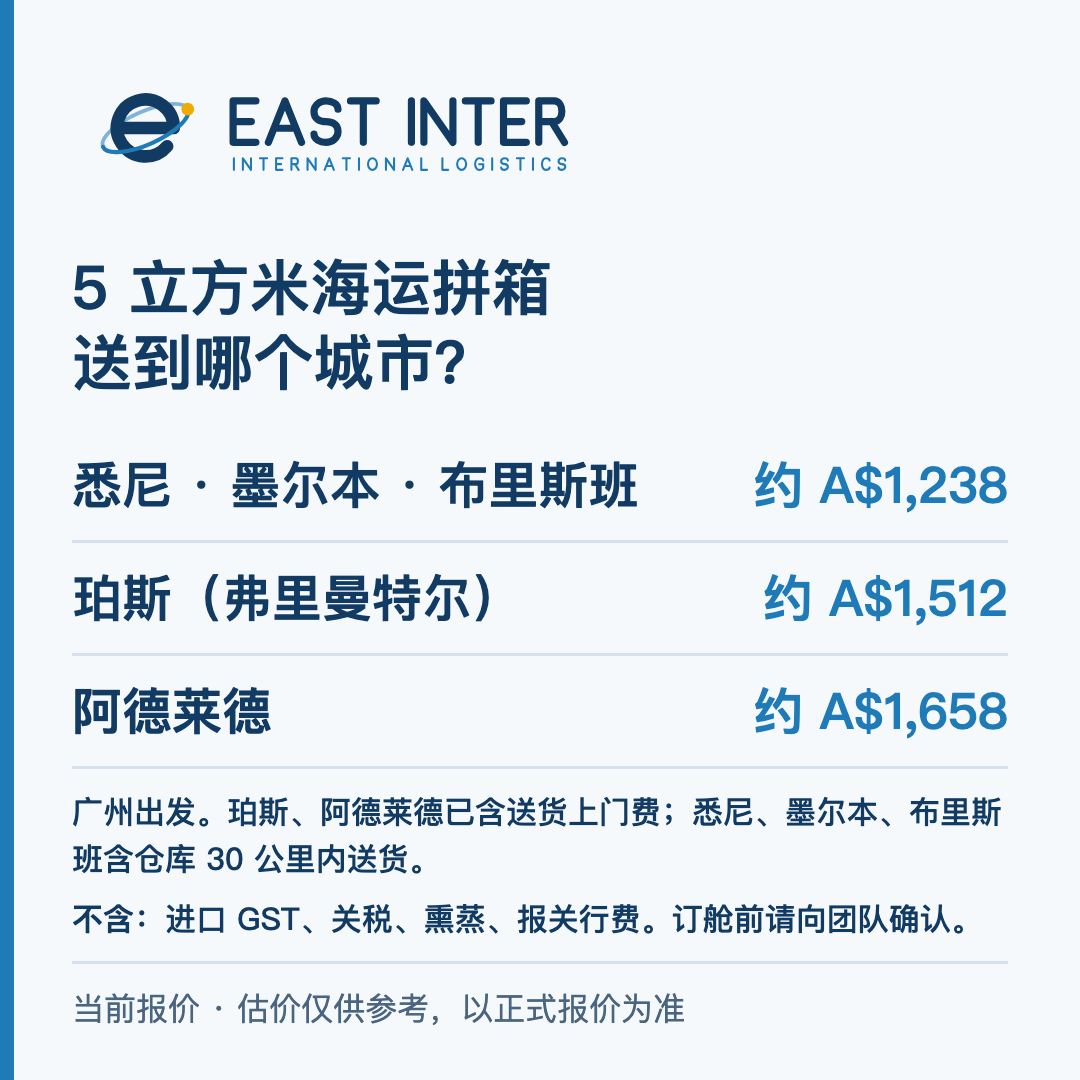
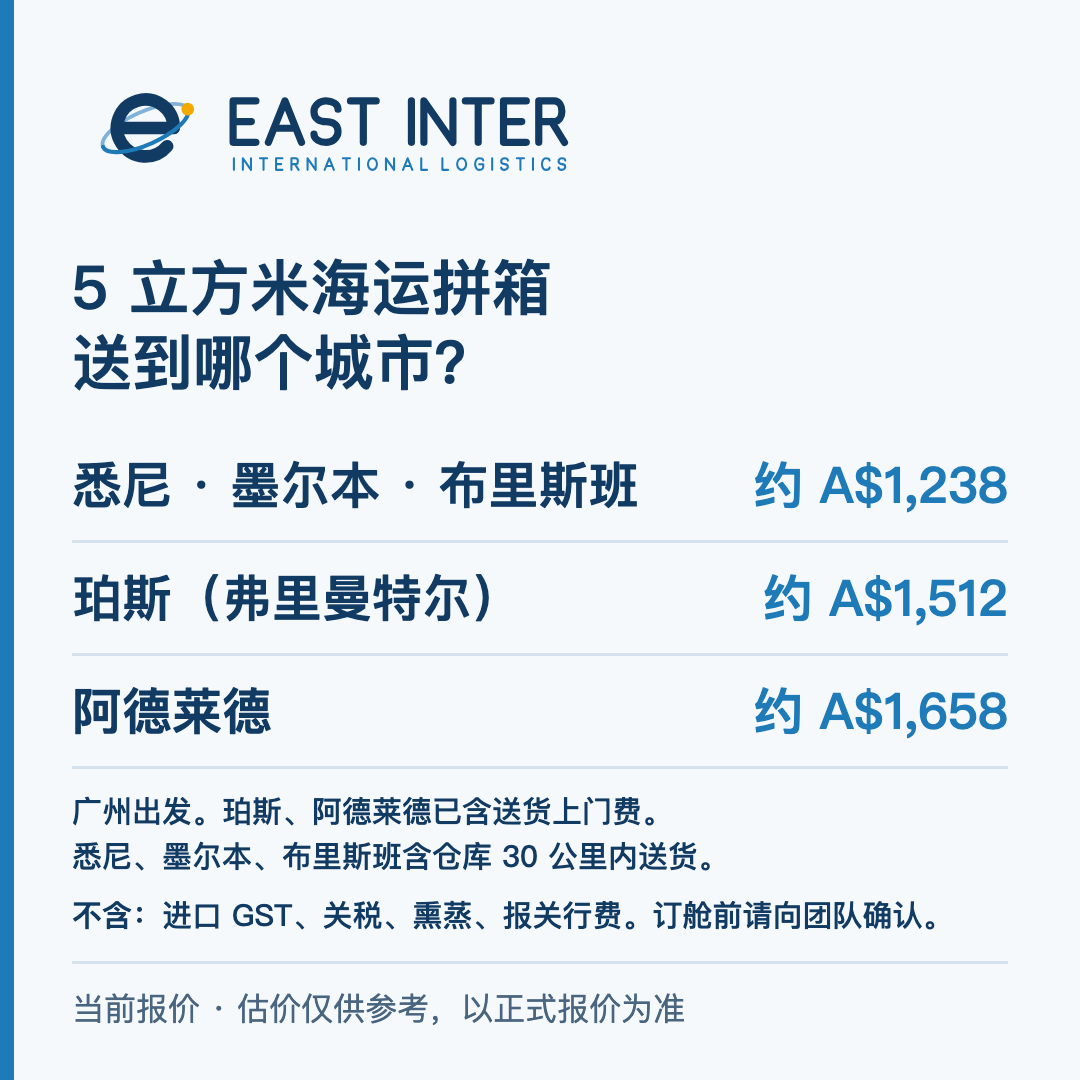
docs(client): 卡 1/卡 2 折行修正（马良复看意见）[east.social.copy-101]

Changed region(s): [[0.0611, 0.7333, 0.8861, 0.8861], [0.6417, 0.7333, 0.9472, 0.7639]]

diff --git a/docs/clients/east-inter/cards-draft/card2-zh.html b/docs/clients/east-inter/cards-draft/card2-zh.html
@@ -13,9 +13,9 @@ h1{font-size:60px;line-height:1.25;font-weight:800;letter-spacing:.5px}
 .list li:before{content:"";display:inline-block;width:22px;height:22px;border-radius:50%;background:#F2A900;margin-right:26px}
 .foot{position:absolute;left:72px;right:72px;bottom:48px;font-size:32px;color:#4A6580;border-top:3px solid #D5E1EC;padding-top:22px;line-height:1.45}
 .pill{display:inline-block;background:#123B63;color:#fff;border-radius:60px;padding:10px 34px;font-size:40px;font-weight:700;margin:6px 14px 6px 0}
-.note{font-size:31px;line-height:1.5;color:#123B63;margin-top:26px;font-weight:500}
+.note{font-size:30px;line-height:1.5;color:#123B63;margin-top:26px;font-weight:500}
 .note b{font-weight:800}
-.en .main{top:222px}.en h1{font-size:52px}.en .note{font-size:28px}.en .foot{font-size:30px;bottom:36px}.en .row{padding:14px 0}
+.en .main{top:222px}.en h1{font-size:52px}.en .note{font-size:29px}.en .foot{font-size:30px;bottom:36px}.en .row{padding:14px 0}
 </style><body class=""><div class="bar"></div><div class="top"><svg xmlns="http://www.w3.org/2000/svg" viewBox="0 0 652 160" width="520" height="128" role="img" aria-label="East Inter International Logistics"><title>East Inter International Logistics</title>
 <g transform="translate(17.00 5.00) scale(0.9375)">
 <g transform="rotate(-24 80 80)"><path d="M18 80 A62 22 0 0 1 142 80" fill="none" stroke="#1F7AB8" stroke-width="5" stroke-linecap="round" opacity=".55"/></g>
@@ -25,4 +25,4 @@ h1{font-size:60px;line-height:1.25;font-weight:800;letter-spacing:.5px}
 <path d="M 230.60 46.00 H 202.00 V 98.00 H 230.60 M 202.00 72.00 H 224.88 M 246.20 98.00 L 267.00 46.00 L 287.80 98.00 M 254.52 80.32 H 279.48 M 333.56 56.40 C 333.56 49.64 326.02 46.00 318.48 46.00 C 310.94 46.00 303.40 51.20 303.40 59.52 C 303.40 68.88 310.94 72.00 318.48 72.00 C 326.02 72.00 333.56 75.12 333.56 84.48 C 333.56 92.80 326.02 98.00 318.48 98.00 C 310.94 98.00 303.40 94.36 303.40 87.60 M 349.16 46.00 H 381.40 M 365.28 46.00 V 98.00 M 425.60 46.00 V 98.00 M 441.20 98.00 V 46.00 L 477.60 98.00 V 46.00 M 493.20 46.00 H 525.44 M 509.32 46.00 V 98.00 M 569.64 46.00 H 541.04 V 98.00 H 569.64 M 541.04 72.00 H 563.92 M 585.24 98.00 V 46.00 H 604.58 C 617.48 46.00 617.48 72.00 604.58 72.00 H 585.24 M 601.36 72.00 L 617.48 98.00" fill="none" stroke="#123B63" stroke-width="9" stroke-linecap="round" stroke-linejoin="round"/>
 <path d="M 203.00 118.00 V 132.50 M 214.25 132.50 V 118.00 L 224.40 132.50 V 118.00 M 235.65 118.00 H 244.64 M 240.15 118.00 V 132.50 M 263.87 118.00 H 255.89 V 132.50 H 263.87 M 255.89 125.25 H 262.27 M 275.12 132.50 V 118.00 H 280.51 C 284.11 118.00 284.11 125.25 280.51 125.25 H 275.12 M 279.61 125.25 L 284.11 132.50 M 295.36 132.50 V 118.00 L 305.51 132.50 V 118.00 M 316.76 132.50 L 322.56 118.00 L 328.36 132.50 M 319.08 127.57 H 326.04 M 339.61 118.00 H 348.60 M 344.10 118.00 V 132.50 M 359.85 118.00 V 132.50 M 376.75 118.00 C 379.58 118.00 382.41 120.90 382.41 125.25 C 382.41 129.60 379.58 132.50 376.75 132.50 C 373.93 132.50 371.10 129.60 371.10 125.25 C 371.10 120.90 373.93 118.00 376.75 118.00 Z M 393.66 132.50 V 118.00 L 403.81 132.50 V 118.00 M 415.06 132.50 L 420.86 118.00 L 426.66 132.50 M 417.38 127.57 H 424.34 M 437.91 118.00 V 132.50 H 445.16 M 464.39 118.00 V 132.50 H 471.64 M 488.54 118.00 C 491.37 118.00 494.20 120.90 494.20 125.25 C 494.20 129.60 491.37 132.50 488.54 132.50 C 485.71 132.50 482.89 129.60 482.89 125.25 C 482.89 120.90 485.71 118.00 488.54 118.00 Z M 515.60 120.90 C 515.60 119.16 513.06 118.00 510.52 118.00 C 507.98 118.00 505.45 120.90 505.45 125.25 C 505.45 129.60 507.98 132.50 510.52 132.50 C 513.06 132.50 515.60 131.05 515.60 128.88 V 125.54 H 510.52 M 526.85 118.00 V 132.50 M 546.51 120.90 C 546.51 119.02 544.41 118.00 542.30 118.00 C 540.20 118.00 538.10 119.45 538.10 121.77 C 538.10 124.38 540.20 125.25 542.30 125.25 C 544.41 125.25 546.51 126.12 546.51 128.73 C 546.51 131.05 544.41 132.50 542.30 132.50 C 540.20 132.50 538.10 131.49 538.10 129.60 M 557.76 118.00 H 566.75 M 562.25 118.00 V 132.50 M 578.00 118.00 V 132.50 M 598.82 120.90 C 598.82 119.16 596.43 118.00 594.03 118.00 C 591.64 118.00 589.25 120.90 589.25 125.25 C 589.25 129.60 591.64 132.50 594.03 132.50 C 596.43 132.50 598.82 131.34 598.82 129.60 M 618.48 120.90 C 618.48 119.02 616.38 118.00 614.28 118.00 C 612.17 118.00 610.07 119.45 610.07 121.77 C 610.07 124.38 612.17 125.25 614.28 125.25 C 616.38 125.25 618.48 126.12 618.48 128.73 C 618.48 131.05 616.38 132.50 614.28 132.50 C 612.17 132.50 610.07 131.49 610.07 129.60" fill="none" stroke="#1F7AB8" stroke-width="2.6" stroke-linecap="round" stroke-linejoin="round"/>
 </svg>
-</div><div class="main"><h1>5 立方米海运拼箱<br>送到哪个城市？</h1><div style='margin-top:30px'><div class='row' style='font-size:50px'><span>悉尼 · 墨尔本 · 布里斯班</span><b>约 A$1,238</b></div><div class='row' style='font-size:50px'><span>珀斯（弗里曼特尔）</span><b>约 A$1,512</b></div><div class='row' style='font-size:50px'><span>阿德莱德</span><b>约 A$1,658</b></div></div><div class='note' style='margin-top:20px'>广州出发。珀斯、阿德莱德已含送货上门费；悉尼、墨尔本、布里斯班含仓库 30 公里内送货。</div><div class='note' style='margin-top:14px'><b>不含：</b>进口 GST、关税、熏蒸、报关行费。订舱前请向团队确认。</div></div><div class="foot">当前报价 · 估价仅供参考，以正式报价为准</div></body></html>
+</div><div class="main"><h1>5 立方米海运拼箱<br>送到哪个城市？</h1><div style='margin-top:30px'><div class='row' style='font-size:50px'><span>悉尼 · 墨尔本 · 布里斯班</span><b>约 A$1,238</b></div><div class='row' style='font-size:50px'><span>珀斯（弗里曼特尔）</span><b>约 A$1,512</b></div><div class='row' style='font-size:50px'><span>阿德莱德</span><b>约 A$1,658</b></div></div><div class='note' style='margin-top:20px'>广州出发。珀斯、阿德莱德已含送货上门费。<br>悉尼、墨尔本、布里斯班含仓库 30 公里内送货。</div><div class='note' style='margin-top:14px'><b>不含：</b>进口 GST、关税、熏蒸、报关行费。订舱前请向团队确认。</div></div><div class="foot">当前报价 · 估价仅供参考，以正式报价为准</div></body></html>

diff --git a/docs/clients/east-inter/cards-draft/card2-en.html b/docs/clients/east-inter/cards-draft/card2-en.html
@@ -13,9 +13,9 @@ h1{font-size:60px;line-height:1.25;font-weight:800;letter-spacing:.5px}
 .list li:before{content:"";display:inline-block;width:22px;height:22px;border-radius:50%;background:#F2A900;margin-right:26px}
 .foot{position:absolute;left:72px;right:72px;bottom:48px;font-size:32px;color:#4A6580;border-top:3px solid #D5E1EC;padding-top:22px;line-height:1.45}
 .pill{display:inline-block;background:#123B63;color:#fff;border-radius:60px;padding:10px 34px;font-size:40px;font-weight:700;margin:6px 14px 6px 0}
-.note{font-size:31px;line-height:1.5;color:#123B63;margin-top:26px;font-weight:500}
+.note{font-size:30px;line-height:1.5;color:#123B63;margin-top:26px;font-weight:500}
 .note b{font-weight:800}
-.en .main{top:222px}.en h1{font-size:52px}.en .note{font-size:28px}.en .foot{font-size:30px;bottom:36px}.en .row{padding:14px 0}
+.en .main{top:222px}.en h1{font-size:52px}.en .note{font-size:29px}.en .foot{font-size:30px;bottom:36px}.en .row{padding:14px 0}
 </style><body class="en"><div class="bar"></div><div class="top"><svg xmlns="http://www.w3.org/2000/svg" viewBox="0 0 652 160" width="520" height="128" role="img" aria-label="East Inter International Logistics"><title>East Inter International Logistics</title>
 <g transform="translate(17.00 5.00) scale(0.9375)">
 <g transform="rotate(-24 80 80)"><path d="M18 80 A62 22 0 0 1 142 80" fill="none" stroke="#1F7AB8" stroke-width="5" stroke-linecap="round" opacity=".55"/></g>
@@ -25,4 +25,4 @@ h1{font-size:60px;line-height:1.25;font-weight:800;letter-spacing:.5px}
 <path d="M 230.60 46.00 H 202.00 V 98.00 H 230.60 M 202.00 72.00 H 224.88 M 246.20 98.00 L 267.00 46.00 L 287.80 98.00 M 254.52 80.32 H 279.48 M 333.56 56.40 C 333.56 49.64 326.02 46.00 318.48 46.00 C 310.94 46.00 303.40 51.20 303.40 59.52 C 303.40 68.88 310.94 72.00 318.48 72.00 C 326.02 72.00 333.56 75.12 333.56 84.48 C 333.56 92.80 326.02 98.00 318.48 98.00 C 310.94 98.00 303.40 94.36 303.40 87.60 M 349.16 46.00 H 381.40 M 365.28 46.00 V 98.00 M 425.60 46.00 V 98.00 M 441.20 98.00 V 46.00 L 477.60 98.00 V 46.00 M 493.20 46.00 H 525.44 M 509.32 46.00 V 98.00 M 569.64 46.00 H 541.04 V 98.00 H 569.64 M 541.04 72.00 H 563.92 M 585.24 98.00 V 46.00 H 604.58 C 617.48 46.00 617.48 72.00 604.58 72.00 H 585.24 M 601.36 72.00 L 617.48 98.00" fill="none" stroke="#123B63" stroke-width="9" stroke-linecap="round" stroke-linejoin="round"/>
 <path d="M 203.00 118.00 V 132.50 M 214.25 132.50 V 118.00 L 224.40 132.50 V 118.00 M 235.65 118.00 H 244.64 M 240.15 118.00 V 132.50 M 263.87 118.00 H 255.89 V 132.50 H 263.87 M 255.89 125.25 H 262.27 M 275.12 132.50 V 118.00 H 280.51 C 284.11 118.00 284.11 125.25 280.51 125.25 H 275.12 M 279.61 125.25 L 284.11 132.50 M 295.36 132.50 V 118.00 L 305.51 132.50 V 118.00 M 316.76 132.50 L 322.56 118.00 L 328.36 132.50 M 319.08 127.57 H 326.04 M 339.61 118.00 H 348.60 M 344.10 118.00 V 132.50 M 359.85 118.00 V 132.50 M 376.75 118.00 C 379.58 118.00 382.41 120.90 382.41 125.25 C 382.41 129.60 379.58 132.50 376.75 132.50 C 373.93 132.50 371.10 129.60 371.10 125.25 C 371.10 120.90 373.93 118.00 376.75 118.00 Z M 393.66 132.50 V 118.00 L 403.81 132.50 V 118.00 M 415.06 132.50 L 420.86 118.00 L 426.66 132.50 M 417.38 127.57 H 424.34 M 437.91 118.00 V 132.50 H 445.16 M 464.39 118.00 V 132.50 H 471.64 M 488.54 118.00 C 491.37 118.00 494.20 120.90 494.20 125.25 C 494.20 129.60 491.37 132.50 488.54 132.50 C 485.71 132.50 482.89 129.60 482.89 125.25 C 482.89 120.90 485.71 118.00 488.54 118.00 Z M 515.60 120.90 C 515.60 119.16 513.06 118.00 510.52 118.00 C 507.98 118.00 505.45 120.90 505.45 125.25 C 505.45 129.60 507.98 132.50 510.52 132.50 C 513.06 132.50 515.60 131.05 515.60 128.88 V 125.54 H 510.52 M 526.85 118.00 V 132.50 M 546.51 120.90 C 546.51 119.02 544.41 118.00 542.30 118.00 C 540.20 118.00 538.10 119.45 538.10 121.77 C 538.10 124.38 540.20 125.25 542.30 125.25 C 544.41 125.25 546.51 126.12 546.51 128.73 C 546.51 131.05 544.41 132.50 542.30 132.50 C 540.20 132.50 538.10 131.49 538.10 129.60 M 557.76 118.00 H 566.75 M 562.25 118.00 V 132.50 M 578.00 118.00 V 132.50 M 598.82 120.90 C 598.82 119.16 596.43 118.00 594.03 118.00 C 591.64 118.00 589.25 120.90 589.25 125.25 C 589.25 129.60 591.64 132.50 594.03 132.50 C 596.43 132.50 598.82 131.34 598.82 129.60 M 618.48 120.90 C 618.48 119.02 616.38 118.00 614.28 118.00 C 612.17 118.00 610.07 119.45 610.07 121.77 C 610.07 124.38 612.17 125.25 614.28 125.25 C 616.38 125.25 618.48 126.12 618.48 128.73 C 618.48 131.05 616.38 132.50 614.28 132.50 C 612.17 132.50 610.07 131.49 610.07 129.60" fill="none" stroke="#1F7AB8" stroke-width="2.6" stroke-linecap="round" stroke-linejoin="round"/>
 </svg>
-</div><div class="main"><h1>5 m³ sea freight —<br>which city?</h1><div style='margin-top:30px'><div class='row' style='font-size:42px'><span>Sydney · Melbourne · Brisbane</span><b>≈ A$1,238</b></div><div class='row' style='font-size:42px'><span>Perth (Fremantle)</span><b>≈ A$1,512</b></div><div class='row' style='font-size:42px'><span>Adelaide</span><b>≈ A$1,658</b></div></div><div class='note' style='margin-top:20px'>From Guangzhou. Perth and Adelaide include door delivery; the other cities include delivery within 30 km of the warehouse.</div><div class='note' style='margin-top:14px'><b>Not included:</b> GST, import duty, fumigation, customs broker fee. Contact us to confirm.</div></div><div class="foot">Indicative estimate. Final charges are subject to a binding quote.</div></body></html>
+</div><div class="main"><h1>5 m³ sea freight —<br>which city?</h1><div style='margin-top:30px'><div class='row' style='font-size:42px'><span>Sydney · Melbourne · Brisbane</span><b>≈ A$1,238</b></div><div class='row' style='font-size:42px'><span>Perth (Fremantle)</span><b>≈ A$1,512</b></div><div class='row' style='font-size:42px'><span>Adelaide</span><b>≈ A$1,658</b></div></div><div class='note' style='margin-top:20px'>From Guangzhou. Perth and Adelaide include door delivery; the other cities include delivery within 30 km of the warehouse.</div><div class='note' style='margin-top:14px'><b>Not included:</b> GST, import duty, fumigation, customs broker fee. <span style='white-space:nowrap'>Contact us to confirm.</span></div></div><div class="foot">Indicative estimate. Final charges are subject to a binding quote.</div></body></html>

diff --git a/docs/clients/east-inter/cards-draft/card1-en.html b/docs/clients/east-inter/cards-draft/card1-en.html
@@ -13,9 +13,9 @@ h1{font-size:60px;line-height:1.25;font-weight:800;letter-spacing:.5px}
 .list li:before{content:"";display:inline-block;width:22px;height:22px;border-radius:50%;background:#F2A900;margin-right:26px}
 .foot{position:absolute;left:72px;right:72px;bottom:48px;font-size:32px;color:#4A6580;border-top:3px solid #D5E1EC;padding-top:22px;line-height:1.45}
 .pill{display:inline-block;background:#123B63;color:#fff;border-radius:60px;padding:10px 34px;font-size:40px;font-weight:700;margin:6px 14px 6px 0}
-.note{font-size:31px;line-height:1.5;color:#123B63;margin-top:26px;font-weight:500}
+.note{font-size:30px;line-height:1.5;color:#123B63;margin-top:26px;font-weight:500}
 .note b{font-weight:800}
-.en .main{top:222px}.en h1{font-size:52px}.en .note{font-size:28px}.en .foot{font-size:30px;bottom:36px}.en .row{padding:14px 0}
+.en .main{top:222px}.en h1{font-size:52px}.en .note{font-size:29px}.en .foot{font-size:30px;bottom:36px}.en .row{padding:14px 0}
 </style><body class="en"><div class="bar"></div><div class="top"><svg xmlns="http://www.w3.org/2000/svg" viewBox="0 0 652 160" width="520" height="128" role="img" aria-label="East Inter International Logistics"><title>East Inter International Logistics</title>
 <g transform="translate(17.00 5.00) scale(0.9375)">
 <g transform="rotate(-24 80 80)"><path d="M18 80 A62 22 0 0 1 142 80" fill="none" stroke="#1F7AB8" stroke-width="5" stroke-linecap="round" opacity=".55"/></g>
@@ -25,4 +25,4 @@ h1{font-size:60px;line-height:1.25;font-weight:800;letter-spacing:.5px}
 <path d="M 230.60 46.00 H 202.00 V 98.00 H 230.60 M 202.00 72.00 H 224.88 M 246.20 98.00 L 267.00 46.00 L 287.80 98.00 M 254.52 80.32 H 279.48 M 333.56 56.40 C 333.56 49.64 326.02 46.00 318.48 46.00 C 310.94 46.00 303.40 51.20 303.40 59.52 C 303.40 68.88 310.94 72.00 318.48 72.00 C 326.02 72.00 333.56 75.12 333.56 84.48 C 333.56 92.80 326.02 98.00 318.48 98.00 C 310.94 98.00 303.40 94.36 303.40 87.60 M 349.16 46.00 H 381.40 M 365.28 46.00 V 98.00 M 425.60 46.00 V 98.00 M 441.20 98.00 V 46.00 L 477.60 98.00 V 46.00 M 493.20 46.00 H 525.44 M 509.32 46.00 V 98.00 M 569.64 46.00 H 541.04 V 98.00 H 569.64 M 541.04 72.00 H 563.92 M 585.24 98.00 V 46.00 H 604.58 C 617.48 46.00 617.48 72.00 604.58 72.00 H 585.24 M 601.36 72.00 L 617.48 98.00" fill="none" stroke="#123B63" stroke-width="9" stroke-linecap="round" stroke-linejoin="round"/>
 <path d="M 203.00 118.00 V 132.50 M 214.25 132.50 V 118.00 L 224.40 132.50 V 118.00 M 235.65 118.00 H 244.64 M 240.15 118.00 V 132.50 M 263.87 118.00 H 255.89 V 132.50 H 263.87 M 255.89 125.25 H 262.27 M 275.12 132.50 V 118.00 H 280.51 C 284.11 118.00 284.11 125.25 280.51 125.25 H 275.12 M 279.61 125.25 L 284.11 132.50 M 295.36 132.50 V 118.00 L 305.51 132.50 V 118.00 M 316.76 132.50 L 322.56 118.00 L 328.36 132.50 M 319.08 127.57 H 326.04 M 339.61 118.00 H 348.60 M 344.10 118.00 V 132.50 M 359.85 118.00 V 132.50 M 376.75 118.00 C 379.58 118.00 382.41 120.90 382.41 125.25 C 382.41 129.60 379.58 132.50 376.75 132.50 C 373.93 132.50 371.10 129.60 371.10 125.25 C 371.10 120.90 373.93 118.00 376.75 118.00 Z M 393.66 132.50 V 118.00 L 403.81 132.50 V 118.00 M 415.06 132.50 L 420.86 118.00 L 426.66 132.50 M 417.38 127.57 H 424.34 M 437.91 118.00 V 132.50 H 445.16 M 464.39 118.00 V 132.50 H 471.64 M 488.54 118.00 C 491.37 118.00 494.20 120.90 494.20 125.25 C 494.20 129.60 491.37 132.50 488.54 132.50 C 485.71 132.50 482.89 129.60 482.89 125.25 C 482.89 120.90 485.71 118.00 488.54 118.00 Z M 515.60 120.90 C 515.60 119.16 513.06 118.00 510.52 118.00 C 507.98 118.00 505.45 120.90 505.45 125.25 C 505.45 129.60 507.98 132.50 510.52 132.50 C 513.06 132.50 515.60 131.05 515.60 128.88 V 125.54 H 510.52 M 526.85 118.00 V 132.50 M 546.51 120.90 C 546.51 119.02 544.41 118.00 542.30 118.00 C 540.20 118.00 538.10 119.45 538.10 121.77 C 538.10 124.38 540.20 125.25 542.30 125.25 C 544.41 125.25 546.51 126.12 546.51 128.73 C 546.51 131.05 544.41 132.50 542.30 132.50 C 540.20 132.50 538.10 131.49 538.10 129.60 M 557.76 118.00 H 566.75 M 562.25 118.00 V 132.50 M 578.00 118.00 V 132.50 M 598.82 120.90 C 598.82 119.16 596.43 118.00 594.03 118.00 C 591.64 118.00 589.25 120.90 589.25 125.25 C 589.25 129.60 591.64 132.50 594.03 132.50 C 596.43 132.50 598.82 131.34 598.82 129.60 M 618.48 120.90 C 618.48 119.02 616.38 118.00 614.28 118.00 C 612.17 118.00 610.07 119.45 610.07 121.77 C 610.07 124.38 612.17 125.25 614.28 125.25 C 616.38 125.25 618.48 126.12 618.48 128.73 C 618.48 131.05 616.38 132.50 614.28 132.50 C 612.17 132.50 610.07 131.49 610.07 129.60" fill="none" stroke="#1F7AB8" stroke-width="2.6" stroke-linecap="round" stroke-linejoin="round"/>
 </svg>
-</div><div class="main"><h1>Guangzhou to Sydney<br>Sea freight LCL, 1 m³</h1><div class='big' style='font-size:160px;margin:24px 0 12px'>≈ A$378</div><div class='sub' style='font-size:38px'>Door to door · clearance included<br>Approx. 20 days (estimate)</div><div class='note' style='margin-top:14px'>Delivery within 30 km of the warehouse is included.</div><div class='note'><b>Not included:</b> GST (10% of goods value), import duty (0–10%), fumigation (A$143 per shipment), customs broker fee (A$99). Contact us to confirm.</div></div><div class="foot">Indicative estimate. Final charges are subject to a binding quote.</div></body></html>
+</div><div class="main"><h1>Guangzhou to Sydney<br>Sea freight LCL, 1 m³</h1><div class='big' style='font-size:160px;margin:24px 0 12px'>≈ A$378</div><div class='sub' style='font-size:38px'>Door to door · clearance included<br>Approx. 20 days (estimate)</div><div class='note' style='margin-top:14px'>Delivery within 30 km of the warehouse is included.</div><div class='note'><b>Not included:</b> GST (10% of goods value), import duty (0–10%), fumigation (A$143 per shipment), customs broker fee (A$99). <span style='white-space:nowrap'>Contact us to confirm.</span></div></div><div class="foot">Indicative estimate. Final charges are subject to a binding quote.</div></body></html>

diff --git a/docs/clients/east-inter/cards-draft/card1-zh.html b/docs/clients/east-inter/cards-draft/card1-zh.html
@@ -13,9 +13,9 @@ h1{font-size:60px;line-height:1.25;font-weight:800;letter-spacing:.5px}
 .list li:before{content:"";display:inline-block;width:22px;height:22px;border-radius:50%;background:#F2A900;margin-right:26px}
 .foot{position:absolute;left:72px;right:72px;bottom:48px;font-size:32px;color:#4A6580;border-top:3px solid #D5E1EC;padding-top:22px;line-height:1.45}
 .pill{display:inline-block;background:#123B63;color:#fff;border-radius:60px;padding:10px 34px;font-size:40px;font-weight:700;margin:6px 14px 6px 0}
-.note{font-size:31px;line-height:1.5;color:#123B63;margin-top:26px;font-weight:500}
+.note{font-size:30px;line-height:1.5;color:#123B63;margin-top:26px;font-weight:500}
 .note b{font-weight:800}
-.en .main{top:222px}.en h1{font-size:52px}.en .note{font-size:28px}.en .foot{font-size:30px;bottom:36px}.en .row{padding:14px 0}
+.en .main{top:222px}.en h1{font-size:52px}.en .note{font-size:29px}.en .foot{font-size:30px;bottom:36px}.en .row{padding:14px 0}
 </style><body class=""><div class="bar"></div><div class="top"><svg xmlns="http://www.w3.org/2000/svg" viewBox="0 0 652 160" width="520" height="128" role="img" aria-label="East Inter International Logistics"><title>East Inter International Logistics</title>
 <g transform="translate(17.00 5.00) scale(0.9375)">
 <g transform="rotate(-24 80 80)"><path d="M18 80 A62 22 0 0 1 142 80" fill="none" stroke="#1F7AB8" stroke-width="5" stroke-linecap="round" opacity=".55"/></g>
@@ -25,4 +25,4 @@ h1{font-size:60px;line-height:1.25;font-weight:800;letter-spacing:.5px}
 <path d="M 230.60 46.00 H 202.00 V 98.00 H 230.60 M 202.00 72.00 H 224.88 M 246.20 98.00 L 267.00 46.00 L 287.80 98.00 M 254.52 80.32 H 279.48 M 333.56 56.40 C 333.56 49.64 326.02 46.00 318.48 46.00 C 310.94 46.00 303.40 51.20 303.40 59.52 C 303.40 68.88 310.94 72.00 318.48 72.00 C 326.02 72.00 333.56 75.12 333.56 84.48 C 333.56 92.80 326.02 98.00 318.48 98.00 C 310.94 98.00 303.40 94.36 303.40 87.60 M 349.16 46.00 H 381.40 M 365.28 46.00 V 98.00 M 425.60 46.00 V 98.00 M 441.20 98.00 V 46.00 L 477.60 98.00 V 46.00 M 493.20 46.00 H 525.44 M 509.32 46.00 V 98.00 M 569.64 46.00 H 541.04 V 98.00 H 569.64 M 541.04 72.00 H 563.92 M 585.24 98.00 V 46.00 H 604.58 C 617.48 46.00 617.48 72.00 604.58 72.00 H 585.24 M 601.36 72.00 L 617.48 98.00" fill="none" stroke="#123B63" stroke-width="9" stroke-linecap="round" stroke-linejoin="round"/>
 <path d="M 203.00 118.00 V 132.50 M 214.25 132.50 V 118.00 L 224.40 132.50 V 118.00 M 235.65 118.00 H 244.64 M 240.15 118.00 V 132.50 M 263.87 118.00 H 255.89 V 132.50 H 263.87 M 255.89 125.25 H 262.27 M 275.12 132.50 V 118.00 H 280.51 C 284.11 118.00 284.11 125.25 280.51 125.25 H 275.12 M 279.61 125.25 L 284.11 132.50 M 295.36 132.50 V 118.00 L 305.51 132.50 V 118.00 M 316.76 132.50 L 322.56 118.00 L 328.36 132.50 M 319.08 127.57 H 326.04 M 339.61 118.00 H 348.60 M 344.10 118.00 V 132.50 M 359.85 118.00 V 132.50 M 376.75 118.00 C 379.58 118.00 382.41 120.90 382.41 125.25 C 382.41 129.60 379.58 132.50 376.75 132.50 C 373.93 132.50 371.10 129.60 371.10 125.25 C 371.10 120.90 373.93 118.00 376.75 118.00 Z M 393.66 132.50 V 118.00 L 403.81 132.50 V 118.00 M 415.06 132.50 L 420.86 118.00 L 426.66 132.50 M 417.38 127.57 H 424.34 M 437.91 118.00 V 132.50 H 445.16 M 464.39 118.00 V 132.50 H 471.64 M 488.54 118.00 C 491.37 118.00 494.20 120.90 494.20 125.25 C 494.20 129.60 491.37 132.50 488.54 132.50 C 485.71 132.50 482.89 129.60 482.89 125.25 C 482.89 120.90 485.71 118.00 488.54 118.00 Z M 515.60 120.90 C 515.60 119.16 513.06 118.00 510.52 118.00 C 507.98 118.00 505.45 120.90 505.45 125.25 C 505.45 129.60 507.98 132.50 510.52 132.50 C 513.06 132.50 515.60 131.05 515.60 128.88 V 125.54 H 510.52 M 526.85 118.00 V 132.50 M 546.51 120.90 C 546.51 119.02 544.41 118.00 542.30 118.00 C 540.20 118.00 538.10 119.45 538.10 121.77 C 538.10 124.38 540.20 125.25 542.30 125.25 C 544.41 125.25 546.51 126.12 546.51 128.73 C 546.51 131.05 544.41 132.50 542.30 132.50 C 540.20 132.50 538.10 131.49 538.10 129.60 M 557.76 118.00 H 566.75 M 562.25 118.00 V 132.50 M 578.00 118.00 V 132.50 M 598.82 120.90 C 598.82 119.16 596.43 118.00 594.03 118.00 C 591.64 118.00 589.25 120.90 589.25 125.25 C 589.25 129.60 591.64 132.50 594.03 132.50 C 596.43 132.50 598.82 131.34 598.82 129.60 M 618.48 120.90 C 618.48 119.02 616.38 118.00 614.28 118.00 C 612.17 118.00 610.07 119.45 610.07 121.77 C 610.07 124.38 612.17 125.25 614.28 125.25 C 616.38 125.25 618.48 126.12 618.48 128.73 C 618.48 131.05 616.38 132.50 614.28 132.50 C 612.17 132.50 610.07 131.49 610.07 129.60" fill="none" stroke="#1F7AB8" stroke-width="2.6" stroke-linecap="round" stroke-linejoin="round"/>
 </svg>
-</div><div class="main"><h1>从广州到悉尼<br>海运拼箱 1 立方米</h1><div class='big'>约 A$378</div><div class='sub' style='font-size:40px'>门到门 · 含清关 · 约 20 天（估计）</div><div class='note' style='margin-top:14px'>仓库 30 公里内送货已含</div><div class='note'><b>不含：</b>进口 GST（货值 10%）、关税（0–10%）、熏蒸（每票 A$143）、报关行费（A$99）。订舱前请向团队确认。</div></div><div class="foot">当前报价 · 估价仅供参考，以正式报价为准</div></body></html>
+</div><div class="main"><h1>从广州到悉尼<br>海运拼箱 1 立方米</h1><div class='big'>约 A$378</div><div class='sub' style='font-size:40px'>门到门 · 含清关 · 约 20 天</div><div class='note' style='margin-top:14px'>仓库 30 公里内送货已含</div><div class='note'><b>不含：</b><span style='white-space:nowrap'>进口 GST（货值 10%）</span>、<span style='white-space:nowrap'>关税（0–10%）</span>、<span style='white-space:nowrap'>熏蒸（每票 A$143）</span>、<span style='white-space:nowrap'>报关行费（A$99）</span>。订舱前请向团队确认。</div></div><div class="foot">当前报价 · 估价仅供参考，以正式报价为准</div></body></html>

diff --git a/docs/clients/east-inter/cards-draft/d1-zh.html b/docs/clients/east-inter/cards-draft/d1-zh.html
@@ -13,9 +13,9 @@ h1{font-size:60px;line-height:1.25;font-weight:800;letter-spacing:.5px}
 .list li:before{content:"";display:inline-block;width:22px;height:22px;border-radius:50%;background:#F2A900;margin-right:26px}
 .foot{position:absolute;left:72px;right:72px;bottom:48px;font-size:32px;color:#4A6580;border-top:3px solid #D5E1EC;padding-top:22px;line-height:1.45}
 .pill{display:inline-block;background:#123B63;color:#fff;border-radius:60px;padding:10px 34px;font-size:40px;font-weight:700;margin:6px 14px 6px 0}
-.note{font-size:31px;line-height:1.5;color:#123B63;margin-top:26px;font-weight:500}
+.note{font-size:30px;line-height:1.5;color:#123B63;margin-top:26px;font-weight:500}
 .note b{font-weight:800}
-.en .main{top:222px}.en h1{font-size:52px}.en .note{font-size:28px}.en .foot{font-size:30px;bottom:36px}.en .row{padding:14px 0}
+.en .main{top:222px}.en h1{font-size:52px}.en .note{font-size:29px}.en .foot{font-size:30px;bottom:36px}.en .row{padding:14px 0}
 </style><body class=""><div class="bar"></div><div class="top"><svg xmlns="http://www.w3.org/2000/svg" viewBox="0 0 652 160" width="520" height="128" role="img" aria-label="East Inter International Logistics"><title>East Inter International Logistics</title>
 <g transform="translate(17.00 5.00) scale(0.9375)">
 <g transform="rotate(-24 80 80)"><path d="M18 80 A62 22 0 0 1 142 80" fill="none" stroke="#1F7AB8" stroke-width="5" stroke-linecap="round" opacity=".55"/></g>

diff --git a/docs/clients/east-inter/cards-draft/d2-zh.html b/docs/clients/east-inter/cards-draft/d2-zh.html
@@ -13,9 +13,9 @@ h1{font-size:60px;line-height:1.25;font-weight:800;letter-spacing:.5px}
 .list li:before{content:"";display:inline-block;width:22px;height:22px;border-radius:50%;background:#F2A900;margin-right:26px}
 .foot{position:absolute;left:72px;right:72px;bottom:48px;font-size:32px;color:#4A6580;border-top:3px solid #D5E1EC;padding-top:22px;line-height:1.45}
 .pill{display:inline-block;background:#123B63;color:#fff;border-radius:60px;padding:10px 34px;font-size:40px;font-weight:700;margin:6px 14px 6px 0}
-.note{font-size:31px;line-height:1.5;color:#123B63;margin-top:26px;font-weight:500}
+.note{font-size:30px;line-height:1.5;color:#123B63;margin-top:26px;font-weight:500}
 .note b{font-weight:800}
-.en .main{top:222px}.en h1{font-size:52px}.en .note{font-size:28px}.en .foot{font-size:30px;bottom:36px}.en .row{padding:14px 0}
+.en .main{top:222px}.en h1{font-size:52px}.en .note{font-size:29px}.en .foot{font-size:30px;bottom:36px}.en .row{padding:14px 0}
 </style><body class=""><div class="bar"></div><div class="top"><svg xmlns="http://www.w3.org/2000/svg" viewBox="0 0 652 160" width="520" height="128" role="img" aria-label="East Inter International Logistics"><title>East Inter International Logistics</title>
 <g transform="translate(17.00 5.00) scale(0.9375)">
 <g transform="rotate(-24 80 80)"><path d="M18 80 A62 22 0 0 1 142 80" fill="none" stroke="#1F7AB8" stroke-width="5" stroke-linecap="round" opacity=".55"/></g>

diff --git a/docs/clients/east-inter/cards-draft/d4-zh.html b/docs/clients/east-inter/cards-draft/d4-zh.html
@@ -13,9 +13,9 @@ h1{font-size:60px;line-height:1.25;font-weight:800;letter-spacing:.5px}
 .list li:before{content:"";display:inline-block;width:22px;height:22px;border-radius:50%;background:#F2A900;margin-right:26px}
 .foot{position:absolute;left:72px;right:72px;bottom:48px;font-size:32px;color:#4A6580;border-top:3px solid #D5E1EC;padding-top:22px;line-height:1.45}
 .pill{display:inline-block;background:#123B63;color:#fff;border-radius:60px;padding:10px 34px;font-size:40px;font-weight:700;margin:6px 14px 6px 0}
-.note{font-size:31px;line-height:1.5;color:#123B63;margin-top:26px;font-weight:500}
+.note{font-size:30px;line-height:1.5;color:#123B63;margin-top:26px;font-weight:500}
 .note b{font-weight:800}
-.en .main{top:222px}.en h1{font-size:52px}.en .note{font-size:28px}.en .foot{font-size:30px;bottom:36px}.en .row{padding:14px 0}
+.en .main{top:222px}.en h1{font-size:52px}.en .note{font-size:29px}.en .foot{font-size:30px;bottom:36px}.en .row{padding:14px 0}
 </style><body class=""><div class="bar"></div><div class="top"><svg xmlns="http://www.w3.org/2000/svg" viewBox="0 0 652 160" width="520" height="128" role="img" aria-label="East Inter International Logistics"><title>East Inter International Logistics</title>
 <g transform="translate(17.00 5.00) scale(0.9375)">
 <g transform="rotate(-24 80 80)"><path d="M18 80 A62 22 0 0 1 142 80" fill="none" stroke="#1F7AB8" stroke-width="5" stroke-linecap="round" opacity=".55"/></g>
